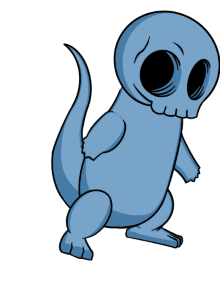
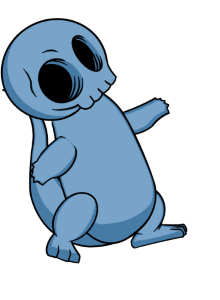
cv/update animation

diff --git a/app/src/resources/pygame/pygame_wrap.py b/app/src/resources/pygame/pygame_wrap.py
@@ -5,7 +5,6 @@ from moveset import Moveset
 from bglayout import level_bg
 
 # region animation example
-import pygame
 pygame.init()
 
 win = pygame.display.set_mode((1920,1080), pygame.FULLSCREEN)
@@ -182,28 +181,23 @@ while run:
         if creature1_moveset.state == 'attack':
             ca = creature1_moveset.animations.get('attack')
             if creature1_moveset.direction == 'right':
-                if ca.count == 5:
-                    creature_x += 100
-                if ca.count == 6: 
+                if ca.count == 18:
+                    creature_x += 150
+                if ca.count in (19, 20): 
                     creature_x += 5
             elif creature1_moveset.direction == 'left':
-                if ca.count == 5:
-                    creature_x -= 100
-                if ca.count == 6: 
+                if ca.count == 18:
+                    creature_x -= 150
+                if ca.count in (19, 20): 
                     creature_x -= 5
             if ca.cycles >= 1:
                 creature_cooldown = 10
                 creature1_moveset.set_state('walk')
                 creature1_moveset.animations.get('attack').reset()
 
-
-
-
-
         #endregion
 
     redrawGameWindow()
-    
     
 pygame.quit()
 # endregion

diff --git a/app/src/resources/pygame/animation.py b/app/src/resources/pygame/animation.py
@@ -24,7 +24,7 @@ class Animator:
             image = pygame.transform.flip(image, 1, 0)
         self.dispaly.blit(image, position)
         self.count +=1
-        if self.count >= self.frames * 3 - 1:
+        if self.count >= self.frames * 3:
             self.count = 0
             self.cycles += 1
 
